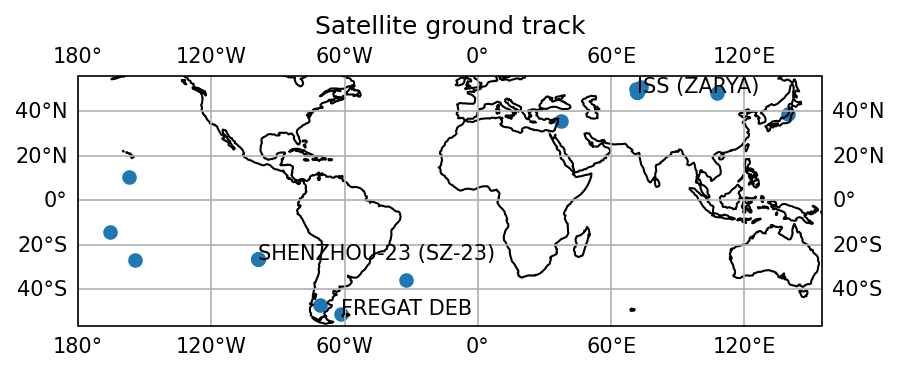
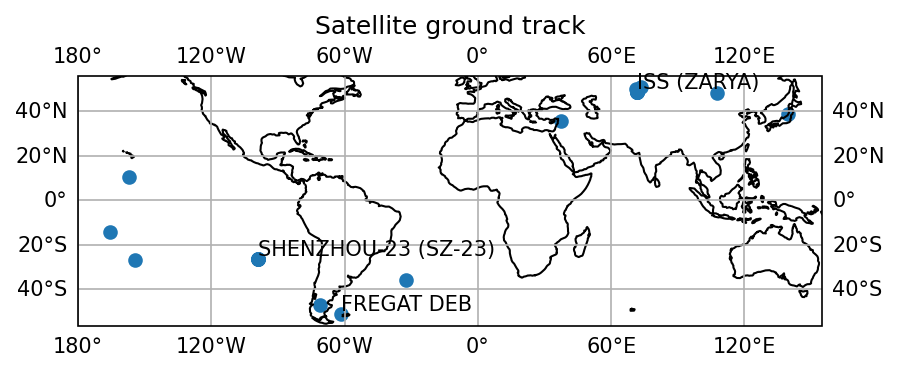
fix(plot): offset key satellite labels via ha/va to prevent dot overlap
Add ha=left, va=bottom to ax.text() inside the key_names loop.
This places the dot at the text label's bottom-left corner, so the
label floats up-and-right of the dot instead of being centered on it.

Chose va=bottom over va=top empirically: with va=top the label
floats below the dot, which pushed southern-hemisphere satellites
(FREGAT DEB, SHENZHOU-23) into the plot's bottom edge. va=bottom
keeps all labels safely inside the plot frame.

ISS (ZARYA), FREGAT DEB, and SHENZHOU-23 (SZ-23) dots are now clearly
visible next to their labels in docs/ground_track.png.

Changed region(s): [[0.2803, 0.6226, 0.5606, 0.7116], [0.3737, 0.7709, 0.5295, 0.8598], [0.7164, 0.1779, 0.8409, 0.2668]]

diff --git a/plot_ground_track.py b/plot_ground_track.py
@@ -29,7 +29,7 @@ def plot_ground_track_scatter(sats: list[dict]) -> None:
     key_names = ["ISS (ZARYA)", "FREGAT DEB", "SHENZHOU-23 (SZ-23)"]
     for sat in sats:
         if sat["name"] in key_names:
-            ax.text(sat["longitude"], sat["latitude"], sat["name"], transform=ccrs.PlateCarree())
+            ax.text(sat["longitude"], sat["latitude"], sat["name"], transform=ccrs.PlateCarree(), ha="left", va="bottom")
     plt.savefig("docs/ground_track.png", bbox_inches="tight", dpi=150)
     plt.show()
 
